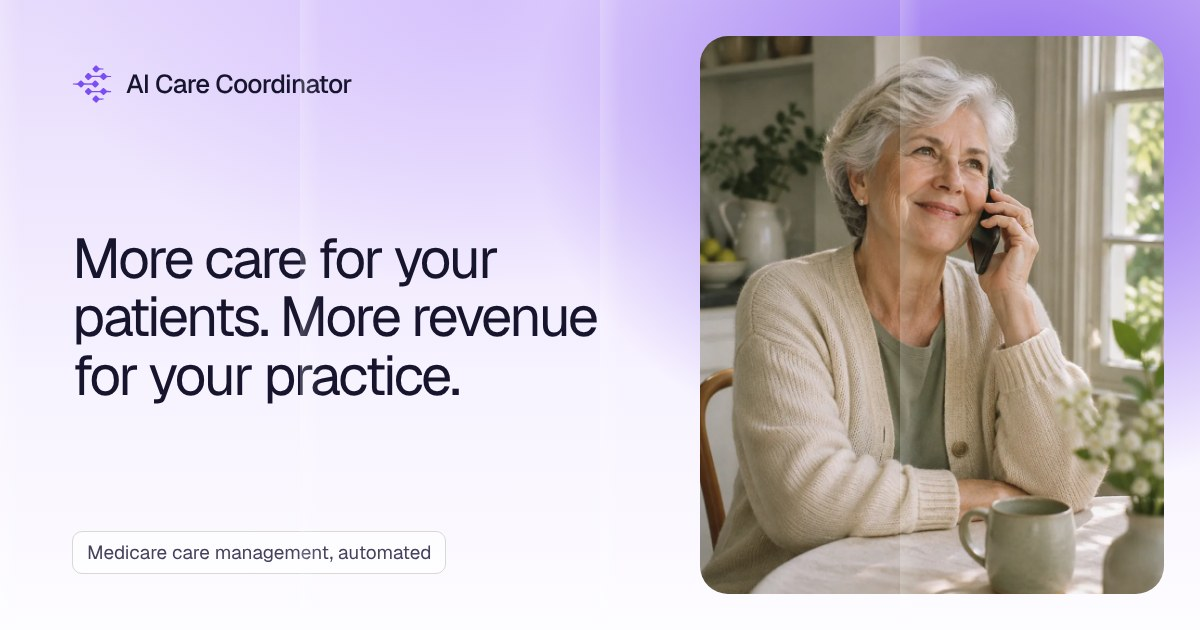
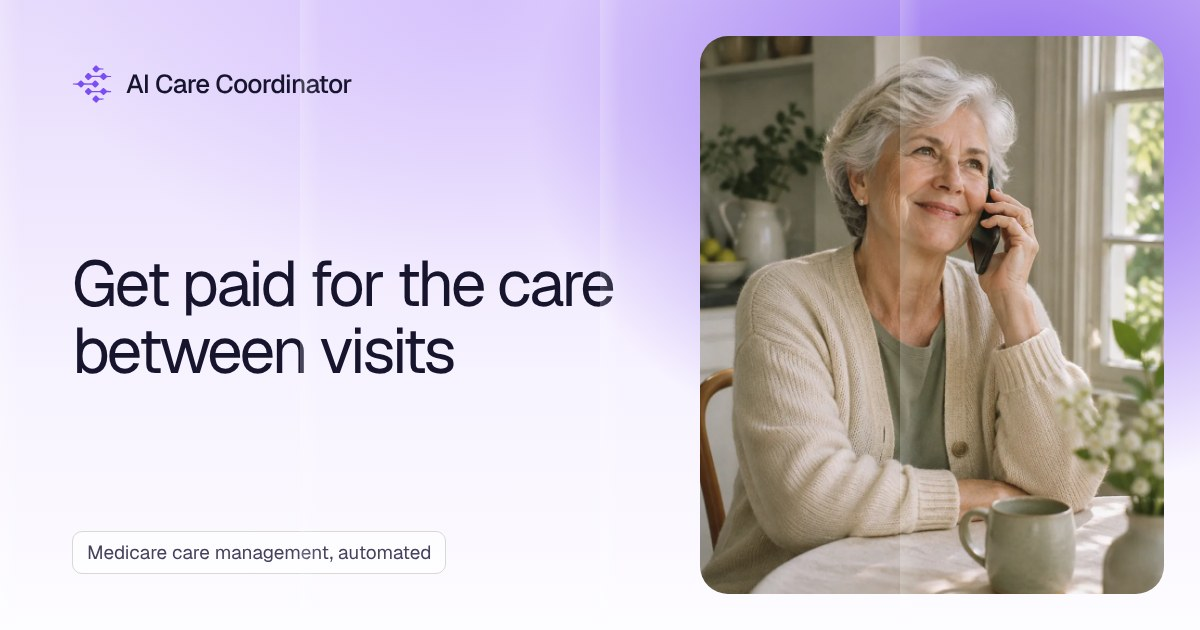
Restore 'Get paid for the care between visits' headline, frame panel section around uncollected revenue
Claude-Session: https://claude.ai/code/session_01Lg5k9BStZYRWrjnfrNMgNu

Changed region(s): [[0.0617, 0.3619, 0.5242, 0.6333]]

diff --git a/style.css b/style.css
@@ -2,7 +2,7 @@
 Theme Name: AI Care Coordinator
 Theme URI: https://aicarecoordinator.com
 Description: Theme for aicarecoordinator.com
-Version: 1.3.7
+Version: 1.3.8
 GitHub Theme URI: chcalibrr/ai-care
 Primary Branch: main
 Requires PHP: 7.4

diff --git a/front-page.php b/front-page.php
@@ -6,8 +6,8 @@ $ph = function ($n) { return get_theme_file_uri('assets/img/photos/' . $n . '.we
   <div class="fl-ribs" aria-hidden="true"><i></i><i></i><i></i><i></i></div>
   <div class="wrap hero-grid">
     <div class="reveal">
-      <h1>More care for your patients. More revenue for your practice.</h1>
-      <p class="lead">Medicare pays your practice every month to look after patients between visits. We make every call, so each patient gets checked on and you get paid, without adding staff.</p>
+      <h1>Get paid for the care between visits</h1>
+      <p class="lead">Medicare pays your practice every month for each patient you look after between visits. We make every call, so you collect that money for your whole panel without adding staff.</p>
       <div class="hero-ctas">
         <a class="btn btn-primary" href="<?php echo esc_url($demo); ?>">Book a demo</a>
         <a class="btn btn-text" href="#listen"><span class="dot"><?php echo aicc_icon('play'); ?></span>Hear an enrollment call</a>
@@ -47,9 +47,9 @@ foreach (array_merge($e, $e) as $x) echo '<img src="' . esc_url(get_theme_file_u
 <section class="mission">
   <div class="wrap mission-grid">
     <div class="reveal">
-      <h2>Almost every Medicare patient you see qualifies. Almost none of them get it.</h2>
-      <p class="lead">Medicare pays for monthly care for any patient whose primary care you provide. The care doesn't happen because nobody has time to call. We call every patient, every month, in their language, and your team only hears about the ones who need a clinician.</p>
-      <div class="face-sum"><b>337</b><span>patients checked on this month in an example practice, all billable, with no new hires</span></div>
+      <h2>Most of your Medicare patients qualify. You're not getting paid for them.</h2>
+      <p class="lead">Medicare pays your practice $16 to $117 a month for each patient whose primary care you provide. In most practices that money is never collected, because nobody has time to call every patient every month. We do the calls, so you get paid for all of them, and your team only hears about the patients who need a clinician.</p>
+      <div class="face-sum"><b>$16,600</b><span>billed this month by an example practice from 337 patients it wasn't getting paid for before, with no new hires</span></div>
     </div>
     <div class="faces reveal" data-faces>
       <?php foreach ([['p-james', 'James R.', 'BP log reviewed'], ['p-margaret', 'Margaret H.', 'Refill requested'], ['p-rosa', 'Rosa M.', 'Check-in in Spanish'], ['p-henry', 'Henry L.', 'Wellness visit booked']] as $f): ?>
@@ -62,7 +62,7 @@ foreach (array_merge($e, $e) as $x) echo '<img src="' . esc_url(get_theme_file_u
 <section>
   <div class="wrap">
     <div class="section-head reveal">
-      <h2>Most of your patients never get this care</h2>
+      <h2>Why that money goes uncollected</h2>
       <p class="lead">Not because they don't qualify. Someone has to call every patient, every month, write it up, and do it again next month. Practices that try it with the staff they have run out of hours.</p>
     </div>
     <div class="stats reveal">

diff --git a/inc/pages.php b/inc/pages.php
@@ -23,7 +23,7 @@ function aicc_pages() {
     return [
         'home' => [
             'title' => 'Home',
-            'seo_title' => 'More Care, More Revenue: Automated Medicare Care Management (APCM)',
+            'seo_title' => 'Get Paid for the Care Between Visits | Automated APCM for Primary Care',
             'desc' => 'Medicare pays your practice every month to care for patients between visits (APCM). We make every enrollment and check-in call, so patients get cared for and you get paid, with no new staff.',
             'order' => 0,
         ],
